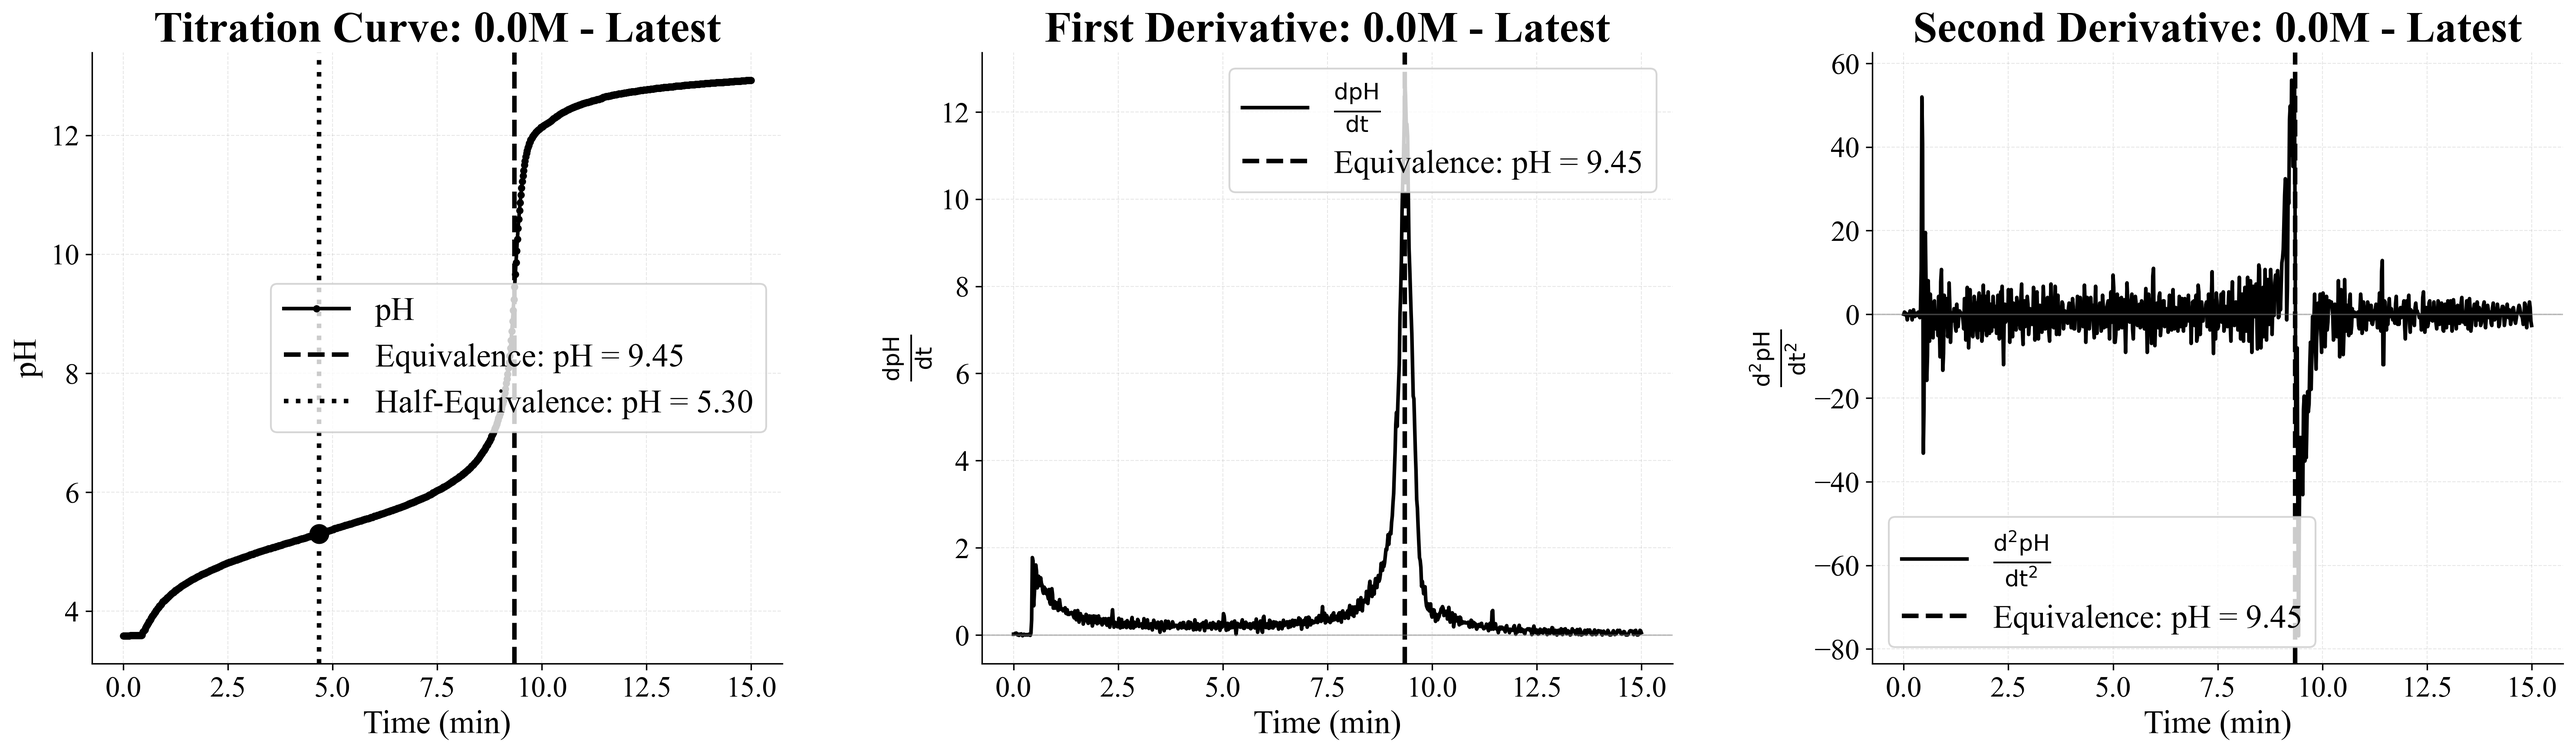
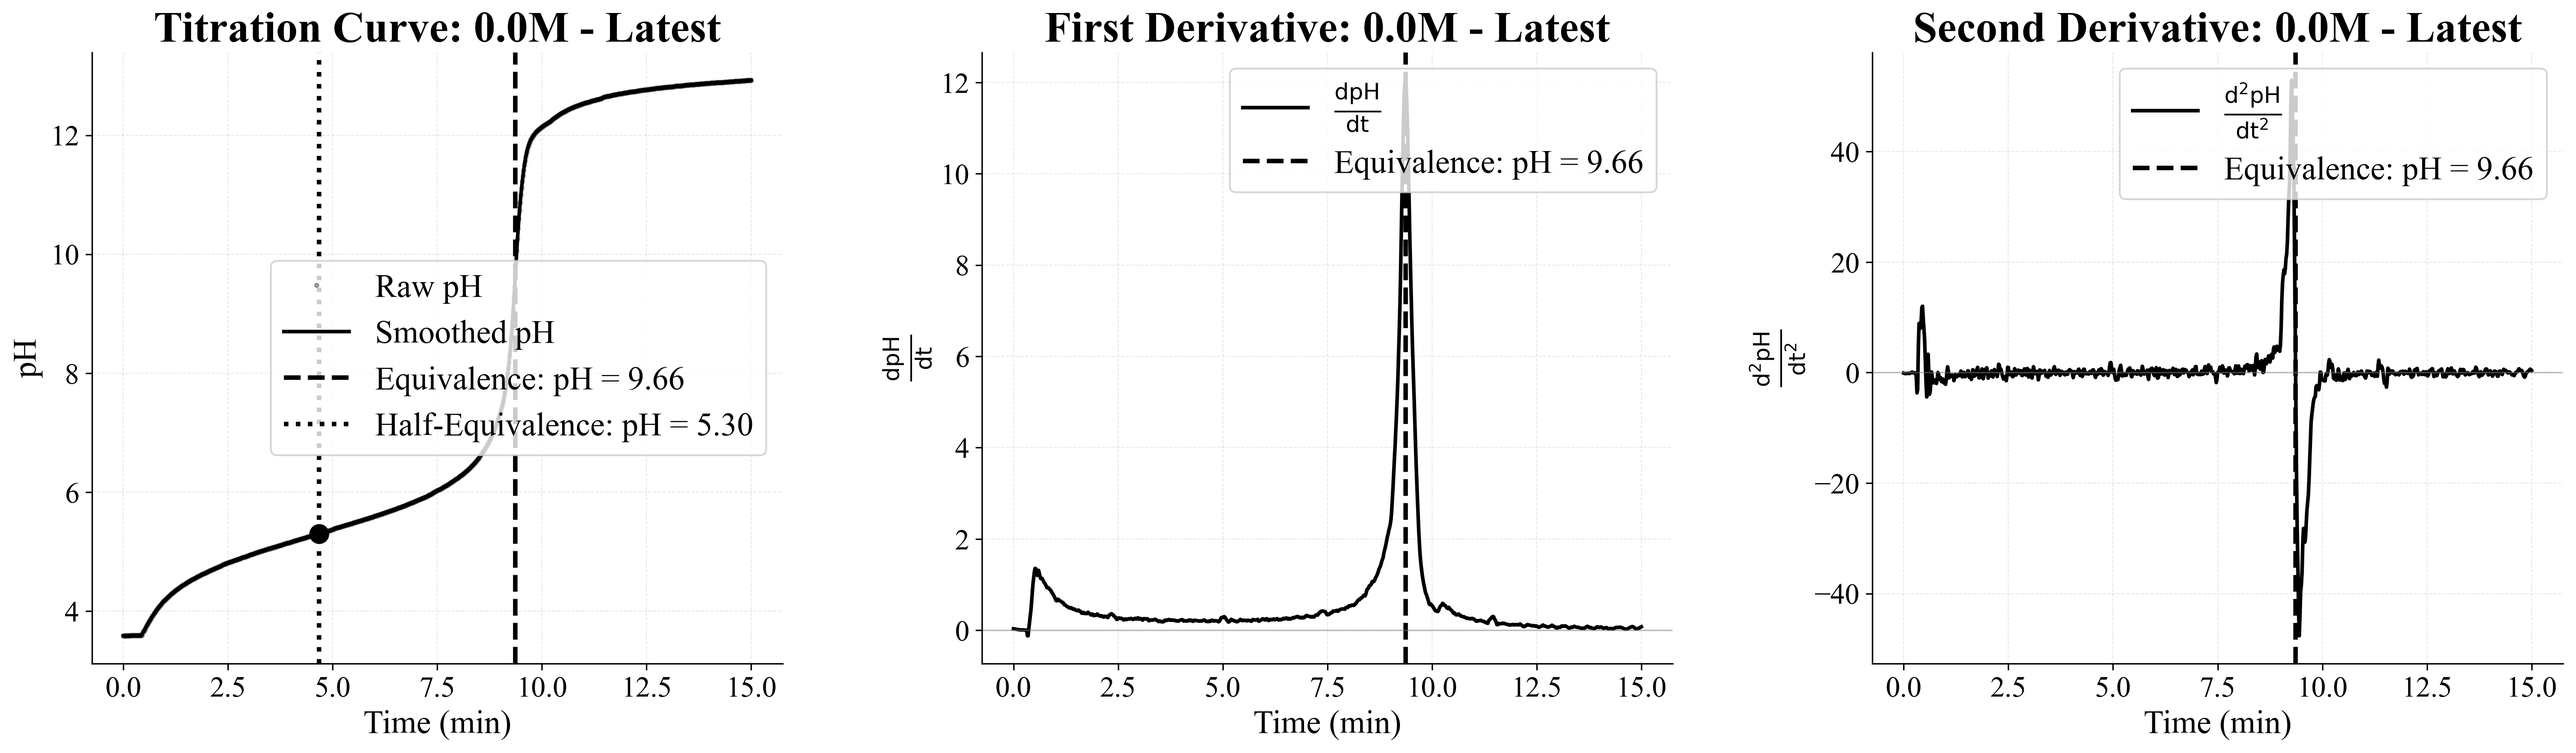
add smoothing

diff --git a/salty/data_processing.py b/salty/data_processing.py
@@ -4,6 +4,7 @@ Handles CSV parsing, run extraction, and derivative calculations.
 
 import numpy as np
 import pandas as pd
+from scipy.signal import savgol_filter
 
 
 def extract_runs(df):
@@ -36,23 +37,43 @@ def extract_runs(df):
     return runs
 
 
-def calculate_derivatives(df, time_col="Time (min)", ph_col="pH"):
+def calculate_derivatives(
+    df, time_col="Time (min)", ph_col="pH", window_length=15, polyorder=3
+):
     """
-    Calculates 1st and 2nd derivatives of pH w.r.t Time.
+    Calculates 1st and 2nd derivatives of pH w.r.t Time using Savitzky-Golay smoothing.
 
     Args:
         df (pd.DataFrame): DataFrame with time and pH data.
         time_col (str, optional): Name of the time column (default: 'Time (min)').
         ph_col (str, optional): Name of the pH column (default: 'pH').
+        window_length (int, optional): Window length for Savitzky-Golay filter (default: 15).
+        polyorder (int, optional): Polynomial order for Savitzky-Golay filter (default: 3).
 
     Returns:
-        pd.DataFrame: Input DataFrame with added 'dpH/dt' and 'd2pH/dt2' columns.
+        pd.DataFrame: Input DataFrame with added 'pH_smooth', 'dpH/dt', and 'd2pH/dt2' columns.
     """
     t = df[time_col].values
     ph = df[ph_col].values
-    dpH = np.gradient(ph, t)
+
+    if window_length >= len(ph):
+        window_length = len(ph) - 1 if len(ph) % 2 == 0 else len(ph)
+    if window_length % 2 == 0:
+        window_length -= 1
+    if window_length < polyorder + 2:
+        window_length = polyorder + 2
+        if window_length % 2 == 0:
+            window_length += 1
+
+    if len(ph) > window_length:
+        ph_smooth = savgol_filter(ph, window_length, polyorder)
+    else:
+        ph_smooth = ph
+
+    dpH = np.gradient(ph_smooth, t)
     d2pH = np.gradient(dpH, t)
 
+    df["pH_smooth"] = ph_smooth
     df["dpH/dt"] = dpH
     df["d2pH/dt2"] = d2pH
 

diff --git a/salty/plotting.py b/salty/plotting.py
@@ -46,15 +46,26 @@ def plot_titration_curves(results, output_dir="output"):
         color = colors[int(res["nacl_conc"])]
 
         fig, (ax1, ax2, ax3) = plt.subplots(1, 3, figsize=(20, 6), sharex=True)
+
         ax1.plot(
             df["Time (min)"],
             df["pH"],
-            ".-",
+            ".",
             color=color,
-            label="pH",
-            linewidth=2,
-            markersize=6,
+            alpha=0.3,
+            label="Raw pH",
+            markersize=4,
         )
+
+        ax1.plot(
+            df["Time (min)"],
+            df["pH_smooth"],
+            "-",
+            color=color,
+            label="Smoothed pH",
+            linewidth=2,
+        )
+
         ax1.axvline(
             res["eq_time"],
             color=color,
@@ -179,7 +190,7 @@ def plot_statistical_summary(stats_df, results_df, output_dir="output"):
             markersize=12,
             capsize=8,
             capthick=3,
-            label=f"{conc} M",
+            label=f"{conc} M (n={int(row['n'])})",
             elinewidth=2.5,
         )
 
@@ -229,7 +240,7 @@ def plot_statistical_summary(stats_df, results_df, output_dir="output"):
             label,
             (row["NaCl Concentration (M)"], row["Mean pKa"]),
             textcoords="offset points",
-            xytext=(0, -50),
+            xytext=(0, -45),
             ha="center",
             fontsize=14,
             fontweight="bold",

diff --git a/salty/analysis.py b/salty/analysis.py
@@ -21,7 +21,7 @@ def find_equivalence_point(df, time_col="Time (min)"):
     """
     max_idx = df["dpH/dt"].idxmax()
     eq_time = df.loc[max_idx, time_col]
-    eq_pH = df.loc[max_idx, "pH"]
+    eq_pH = df.loc[max_idx, "pH_smooth"]
 
     return eq_time, eq_pH
 
@@ -41,7 +41,7 @@ def analyze_titration(df, run_name):
     eq_time, eq_pH = find_equivalence_point(df)
 
     half_eq_time = eq_time / 2
-    half_eq_pH = np.interp(half_eq_time, df["Time (min)"], df["pH"])
+    half_eq_pH = np.interp(half_eq_time, df["Time (min)"], df["pH_smooth"])
 
     return {
         "run_name": run_name,
